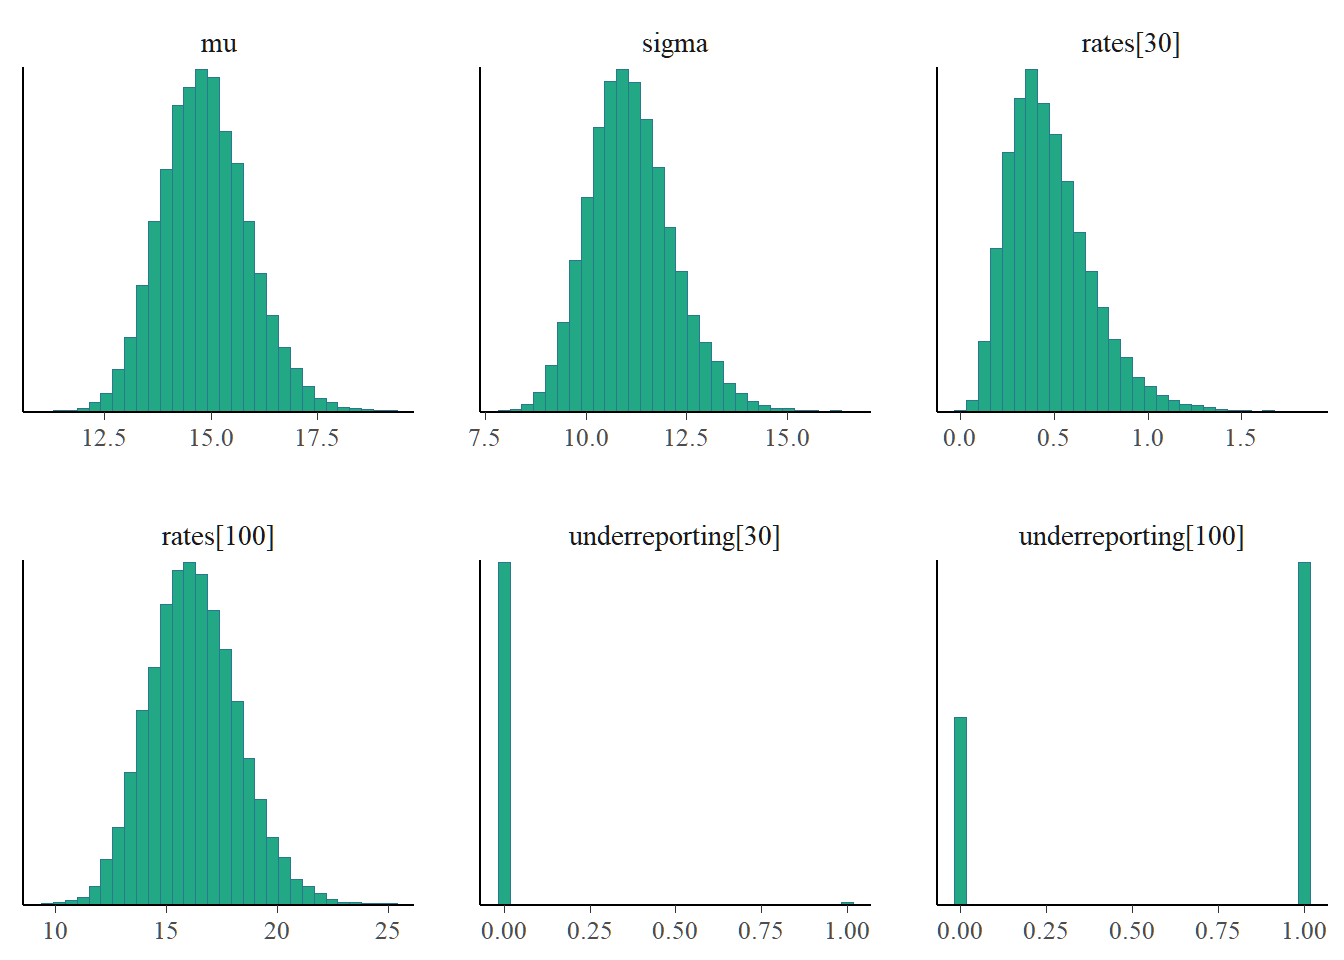
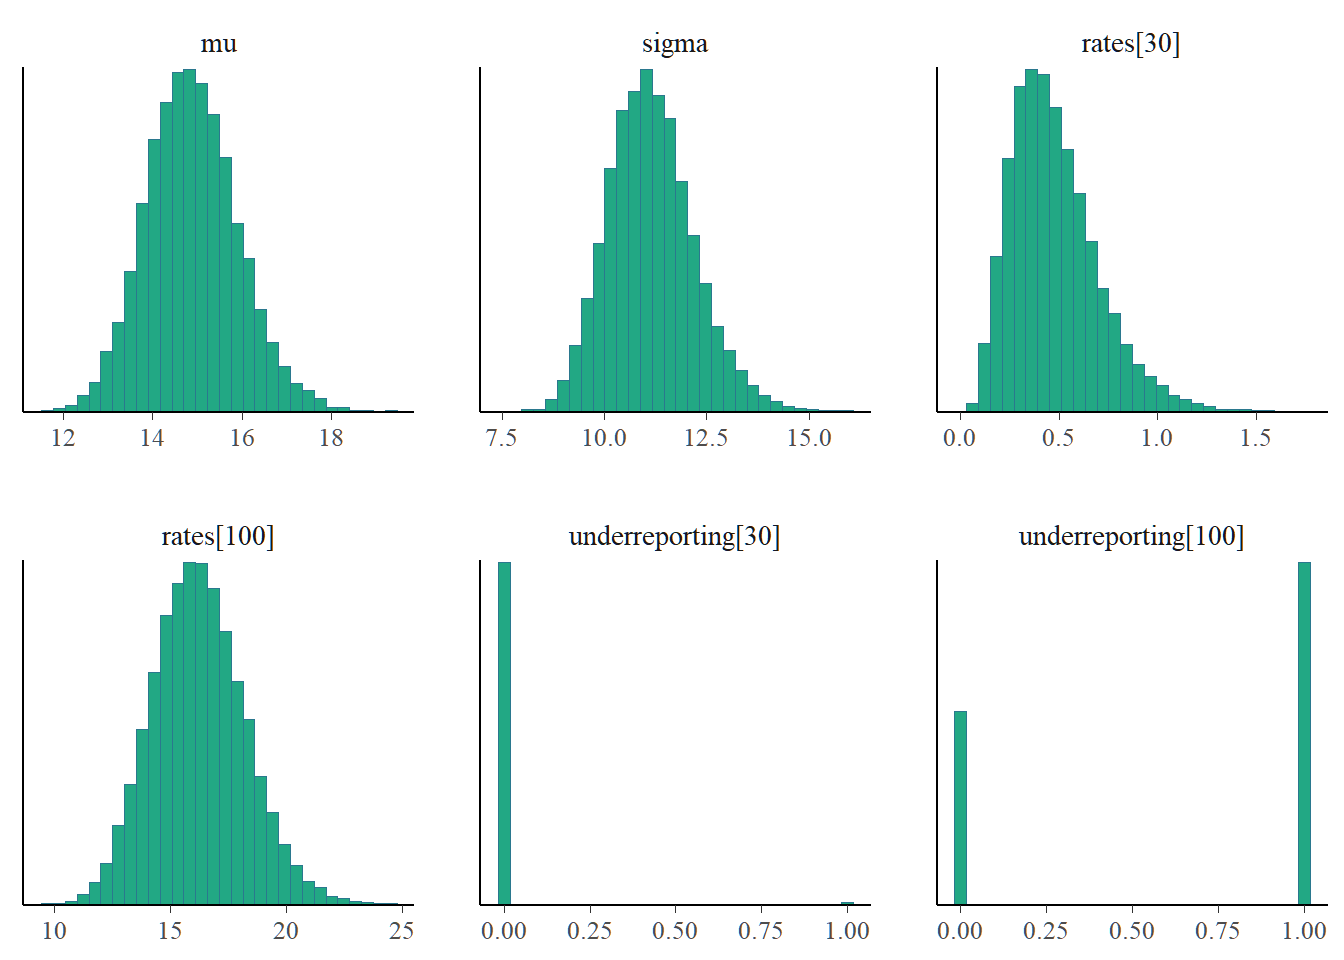
prior predictive

diff --git a/docs/blogs/AE Counts/AE Underreporting reveal JS.html b/docs/blogs/AE Counts/AE Underreporting reveal JS.html
@@ -472,8 +472,9 @@ Figure&nbsp;1: Graphical representation of the adverse event reporting model
 <span id="cb5-27"><a href="#cb5-27" aria-hidden="true" tabindex="-1"></a>  <span class="fu">group_by</span>(prior_predictive) <span class="sc">|&gt;</span></span>
 <span id="cb5-28"><a href="#cb5-28" aria-hidden="true" tabindex="-1"></a>  <span class="fu">summarise</span>(<span class="at">frequency =</span> <span class="fu">n</span>()) <span class="sc">|&gt;</span></span>
 <span id="cb5-29"><a href="#cb5-29" aria-hidden="true" tabindex="-1"></a>  <span class="fu">ggplot</span>(<span class="fu">aes</span>(<span class="at">x =</span> <span class="fu">as.factor</span>(prior_predictive), <span class="at">y =</span> frequency)) <span class="sc">+</span></span>
-<span id="cb5-30"><a href="#cb5-30" aria-hidden="true" tabindex="-1"></a>  <span class="fu">geom_col</span>(<span class="at">fill =</span> <span class="st">"tan"</span>, <span class="at">color =</span> <span class="st">"black"</span>)<span class="sc">+</span></span>
-<span id="cb5-31"><a href="#cb5-31" aria-hidden="true" tabindex="-1"></a>  <span class="fu">labs</span>(<span class="at">x =</span> <span class="st">"prior predictive distribution"</span>)</span></code><button title="Copy to Clipboard" class="code-copy-button"><i class="bi"></i></button></pre></div>
+<span id="cb5-30"><a href="#cb5-30" aria-hidden="true" tabindex="-1"></a>  <span class="fu">geom_col</span>(<span class="at">fill =</span> <span class="st">"tan"</span>, <span class="at">color =</span> <span class="st">"black"</span>) <span class="sc">+</span></span>
+<span id="cb5-31"><a href="#cb5-31" aria-hidden="true" tabindex="-1"></a>  <span class="fu">labs</span>(<span class="at">x =</span> <span class="st">"prior predictive distribution"</span>) <span class="sc">+</span></span>
+<span id="cb5-32"><a href="#cb5-32" aria-hidden="true" tabindex="-1"></a>  <span class="fu">guides</span>(<span class="at">x =</span> <span class="fu">guide_axis</span>(<span class="at">check.overlap =</span> <span class="cn">TRUE</span>))</span></code><button title="Copy to Clipboard" class="code-copy-button"><i class="bi"></i></button></pre></div>
 </details>
 <div class="cell-output-display">
 <div>
@@ -595,51 +596,51 @@ Figure&nbsp;1: Graphical representation of the adverse event reporting model
 <tbody>
 <tr class="odd">
 <td style="text-align: left;">mu</td>
-<td style="text-align: right;">14.865145</td>
-<td style="text-align: right;">1.0174533</td>
-<td style="text-align: right;">13.011505</td>
-<td style="text-align: right;">14.827369</td>
-<td style="text-align: right;">16.977812</td>
+<td style="text-align: right;">14.878663</td>
+<td style="text-align: right;">1.0132650</td>
+<td style="text-align: right;">12.995220</td>
+<td style="text-align: right;">14.840192</td>
+<td style="text-align: right;">16.992709</td>
 <td style="text-align: right;">1</td>
-<td style="text-align: right;">3916</td>
+<td style="text-align: right;">4120</td>
 </tr>
 <tr class="even">
 <td style="text-align: left;">sigma</td>
-<td style="text-align: right;">11.126217</td>
-<td style="text-align: right;">1.0420494</td>
-<td style="text-align: right;">9.287506</td>
-<td style="text-align: right;">11.051209</td>
-<td style="text-align: right;">13.366332</td>
+<td style="text-align: right;">11.136418</td>
+<td style="text-align: right;">1.0404118</td>
+<td style="text-align: right;">9.277970</td>
+<td style="text-align: right;">11.072272</td>
+<td style="text-align: right;">13.381192</td>
 <td style="text-align: right;">1</td>
-<td style="text-align: right;">3832</td>
+<td style="text-align: right;">3997</td>
 </tr>
 <tr class="odd">
 <td style="text-align: left;">rates[1]</td>
-<td style="text-align: right;">3.205302</td>
-<td style="text-align: right;">1.2303922</td>
-<td style="text-align: right;">1.258579</td>
-<td style="text-align: right;">3.056531</td>
-<td style="text-align: right;">6.029009</td>
-<td style="text-align: right;">1</td>
-<td style="text-align: right;">24441</td>
-</tr>
-<tr class="even">
-<td style="text-align: left;">rates[2]</td>
-<td style="text-align: right;">3.060811</td>
-<td style="text-align: right;">0.6133531</td>
-<td style="text-align: right;">1.976420</td>
-<td style="text-align: right;">3.016414</td>
-<td style="text-align: right;">4.391981</td>
+<td style="text-align: right;">3.203474</td>
+<td style="text-align: right;">1.2307803</td>
+<td style="text-align: right;">1.259407</td>
+<td style="text-align: right;">3.050051</td>
+<td style="text-align: right;">5.999374</td>
 <td style="text-align: right;">1</td>
 <td style="text-align: right;">24000</td>
 </tr>
+<tr class="even">
+<td style="text-align: left;">rates[2]</td>
+<td style="text-align: right;">3.055116</td>
+<td style="text-align: right;">0.6129103</td>
+<td style="text-align: right;">1.962591</td>
+<td style="text-align: right;">3.017054</td>
+<td style="text-align: right;">4.366079</td>
+<td style="text-align: right;">1</td>
+<td style="text-align: right;">24290</td>
+</tr>
 <tr class="odd">
 <td style="text-align: left;">rates[3]</td>
-<td style="text-align: right;">6.048795</td>
-<td style="text-align: right;">1.7103338</td>
-<td style="text-align: right;">3.196660</td>
-<td style="text-align: right;">5.888936</td>
-<td style="text-align: right;">9.888967</td>
+<td style="text-align: right;">6.034691</td>
+<td style="text-align: right;">1.6981183</td>
+<td style="text-align: right;">3.183736</td>
+<td style="text-align: right;">5.882964</td>
+<td style="text-align: right;">9.824357</td>
 <td style="text-align: right;">1</td>
 <td style="text-align: right;">24000</td>
 </tr>
@@ -679,58 +680,58 @@ Figure&nbsp;1: Graphical representation of the adverse event reporting model
 <tbody>
 <tr class="odd">
 <td style="text-align: right;">3030</td>
-<td style="text-align: right;">0.4758644</td>
-<td style="text-align: right;">0.2185026</td>
-<td style="text-align: right;">0.0034167</td>
+<td style="text-align: right;">0.4752721</td>
+<td style="text-align: right;">0.2170050</td>
+<td style="text-align: right;">0.0042500</td>
 <td style="text-align: left;">(0,1,2)</td>
 </tr>
 <tr class="even">
 <td style="text-align: right;">3036</td>
-<td style="text-align: right;">0.9221665</td>
-<td style="text-align: right;">0.4743262</td>
-<td style="text-align: right;">0.0118333</td>
+<td style="text-align: right;">0.9262172</td>
+<td style="text-align: right;">0.4747870</td>
+<td style="text-align: right;">0.0135417</td>
 <td style="text-align: left;">(0,1)</td>
 </tr>
 <tr class="odd">
 <td style="text-align: right;">3037</td>
-<td style="text-align: right;">1.3235175</td>
-<td style="text-align: right;">0.5127629</td>
-<td style="text-align: right;">0.0202917</td>
+<td style="text-align: right;">1.3267179</td>
+<td style="text-align: right;">0.5122795</td>
+<td style="text-align: right;">0.0227500</td>
 <td style="text-align: left;">(1,0,3)</td>
 </tr>
 <tr class="even">
 <td style="text-align: right;">3046</td>
-<td style="text-align: right;">1.5993490</td>
-<td style="text-align: right;">1.2102722</td>
-<td style="text-align: right;">0.0327083</td>
+<td style="text-align: right;">1.6009174</td>
+<td style="text-align: right;">1.2152893</td>
+<td style="text-align: right;">0.0350000</td>
 <td style="text-align: left;">(0)</td>
 </tr>
 <tr class="odd">
-<td style="text-align: right;">3035</td>
-<td style="text-align: right;">2.2591444</td>
-<td style="text-align: right;">1.0327427</td>
-<td style="text-align: right;">0.0509583</td>
-<td style="text-align: left;">(0,3)</td>
+<td style="text-align: right;">3032</td>
+<td style="text-align: right;">2.2637225</td>
+<td style="text-align: right;">1.0275527</td>
+<td style="text-align: right;">0.0537083</td>
+<td style="text-align: left;">(3,0)</td>
 </tr>
 <tr class="even">
-<td style="text-align: right;">3032</td>
-<td style="text-align: right;">2.2550195</td>
-<td style="text-align: right;">1.0260417</td>
-<td style="text-align: right;">0.0515417</td>
-<td style="text-align: left;">(3,0)</td>
+<td style="text-align: right;">3035</td>
+<td style="text-align: right;">2.2697561</td>
+<td style="text-align: right;">1.0365632</td>
+<td style="text-align: right;">0.0547917</td>
+<td style="text-align: left;">(0,3)</td>
 </tr>
 <tr class="odd">
 <td style="text-align: right;">3018</td>
-<td style="text-align: right;">2.6190009</td>
-<td style="text-align: right;">0.8058113</td>
-<td style="text-align: right;">0.0647917</td>
+<td style="text-align: right;">2.6182872</td>
+<td style="text-align: right;">0.7986012</td>
+<td style="text-align: right;">0.0642917</td>
 <td style="text-align: left;">(6,1,2,0)</td>
 </tr>
 <tr class="even">
 <td style="text-align: right;">3039</td>
-<td style="text-align: right;">2.7303529</td>
-<td style="text-align: right;">1.1286141</td>
-<td style="text-align: right;">0.0702917</td>
+<td style="text-align: right;">2.7382029</td>
+<td style="text-align: right;">1.1425362</td>
+<td style="text-align: right;">0.0715000</td>
 <td style="text-align: left;">(3,1)</td>
 </tr>
 </tbody>

diff --git a/docs/blogs.html b/docs/blogs.html
@@ -202,7 +202,7 @@ window.Quarto = {
 
 <div class="quarto-listing quarto-listing-container-default" id="listing-listing">
 <div class="list quarto-listing-default">
-<div class="quarto-post image-right" data-index="0" data-listing-date-sort="1745730000000" data-listing-file-modified-sort="1745863528114" data-listing-date-modified-sort="NaN" data-listing-reading-time-sort="11" data-listing-word-count-sort="2042">
+<div class="quarto-post image-right" data-index="0" data-listing-date-sort="1745730000000" data-listing-file-modified-sort="1745864291520" data-listing-date-modified-sort="NaN" data-listing-reading-time-sort="11" data-listing-word-count-sort="2050">
 <div class="thumbnail">
 <p><a href="./blogs/AE Counts/AE Underreporting reveal JS.html" class="no-external"></a></p><a href="./blogs/AE Counts/AE Underreporting reveal JS.html" class="no-external">
 <p class="card-img-top"><img src="blogs\AE Counts\AE-Underreporting-reveal-JS_files\figure-html\unnamed-chunk-3-1.png"  class="thumbnail-image card-img"/></p>
